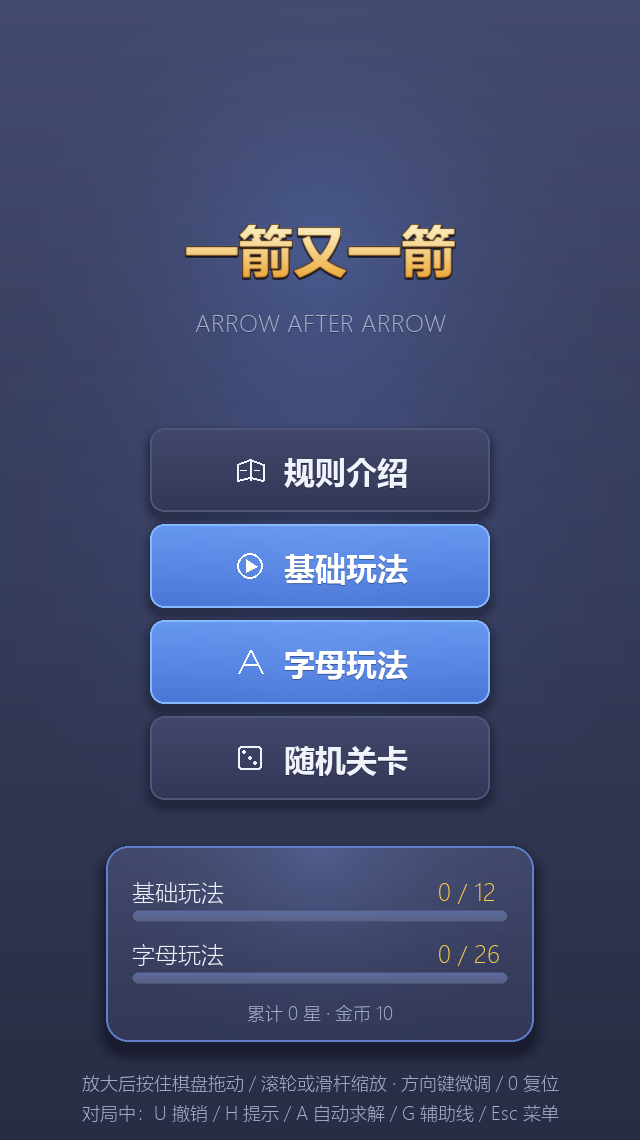
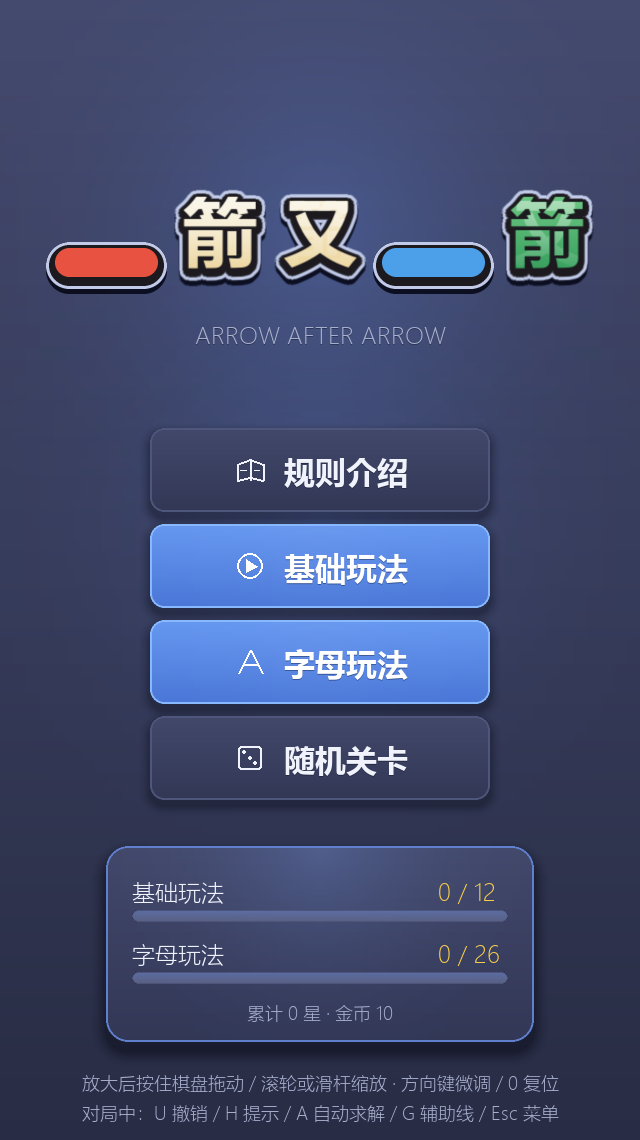
docs: 同步返回来处与拼装标题的说明、测试记录 T16、AIGC 记录，重出开始页截图
- README：顶部靶心改成「返回（回进这一局之前的那一屏）」；界面观感一节把
  艺术字描述换成拼装贴纸字（三层颜色 / lift / 红蓝横条 / 绿色收尾）；338 -> 344 用例
- docs/design.md：8.6 性能表更新；8.7 重写并新增 8.7.1（卡通贴纸配方：第二圈描边
  + 字脸上浮）、8.7.2（拼装式标题：按墨迹排布）、8.7.3（两个性能坑：描边单位不一致、
  圆盘膨胀的降分辨率优化）
- docs/test-record.md：标题升到 T01–T16、汇总 344 passed，新增 T16
- AIGC记录.md：汇总表新增第 19 行（靶心返回来处）与第 20 行（贴纸拼装标题）
- 截图重出 start.png（标题改了，其余界面不受影响）

Changed region(s): [[0.0625, 0.1535, 0.9375, 0.307]]

diff --git a/docs/design.md b/docs/design.md
@@ -457,21 +457,21 @@ paint.blit_glow(self.canvas, center, 430, pal.glow, 62, 2.3)
 
 | 界面 | 中位 | 最大 |
 |---|---|---|
-| 开始页（含艺术字） | 2.24 ms | 5.59 ms |
-| 规则页 | 6.69 ms | 7.61 ms |
-| 基础选关 | 4.02 ms | 5.05 ms |
-| 字母选关 | 1.68 ms | 2.29 ms |
-| 字母关（静态） | 2.91 ms | 5.88 ms |
-| 字母关（飞行中） | 2.82 ms | 3.98 ms |
-| 第 1 关（静态） | 3.40 ms | 5.33 ms |
-| 第 12 关（静态） | 6.02 ms | 8.07 ms |
-| 第 12 关（飞行中） | 5.47 ms | 9.04 ms |
-| 菜单展开 | 8.22 ms | 9.83 ms |
-| 第 12 关（日间） | 5.52 ms | 9.24 ms |
+| 开始页（含拼装标题） | 2.90 ms | 3.78 ms |
+| 规则页 | 7.55 ms | 8.93 ms |
+| 基础选关 | 4.23 ms | 6.15 ms |
+| 字母选关 | 1.76 ms | 2.84 ms |
+| 字母关（静态） | 3.12 ms | 6.82 ms |
+| 字母关（飞行中） | 3.17 ms | 5.21 ms |
+| 第 1 关（静态） | 3.56 ms | 5.08 ms |
+| 第 12 关（静态） | 5.86 ms | 8.53 ms |
+| 第 12 关（飞行中） | 6.29 ms | 7.85 ms |
+| 菜单展开 | 9.12 ms | 11.03 ms |
+| 第 12 关（日间） | 6.27 ms | 7.70 ms |
 
 都远在 60 FPS 的 16.7 ms 预算之内。最贵的是「规则页 / 菜单展开」—— 除了面板本身，
-还要整屏铺一层半透明遮罩，页面上又是一堆小卡片。艺术字反而便宜（2.24 ms）：
-它是一张预渲染好的贴图，一帧只是一次 blit，构建成本只在第一次画时付一次。
+还要整屏铺一层半透明遮罩，页面上又是一堆小卡片。拼装标题反而便宜（2.90 ms）：
+五片各自都是一张预渲染好的贴图，一帧只是五次 blit，构建成本只在第一次画时付一次。
 
 棋盘加密到约 1.4 倍之后，最贵的一档从 3.32 ms 涨到 6.02 ms（第 12 关静态）——
 格子多了约九成，铺底色、描边、箭头都得按格子走一遍。仍然只有预算的三分之一。
@@ -484,17 +484,52 @@ paint.blit_glow(self.canvas, center, 430, pal.glow, 62, 2.3)
 1. `font.render(text)` 拿到一张**抗锯齿的白字**（alpha 就是形状）；
 2. 把它 `smoothscale` 放大 `ART_SUPERSAMPLE = 3` 倍；
 3. 在放大空间里做加工：
-   - **外描边**：把白字染成描边色，按「半径 r 内所有整数偏移点」（一个圆盘，
-     r=描边宽 × 3）逐点 `BLEND_RGBA_MAX` 铺一遍。**用圆盘而不是 4 / 8 个方向**
-     是关键 —— 只铺 8 个方向时，斜笔的描边会被啃出缺口；
+   - **描边**：把白字染成描边色，按「半径 r 内所有整数偏移点」（一个圆盘）逐点
+     `BLEND_RGBA_MAX` 铺一遍。**用圆盘而不是 4 / 8 个方向**是关键 —— 只铺 8 个
+     方向时，斜笔的描边会被啃出缺口；
    - **渐变主体**：拿 `vertical_gradient` 与字的 alpha 相乘（`BLEND_RGBA_MULT`）；
    - **顶部高光**：再叠一层「上实下透明」的 `edge_fade`，同样乘字的 alpha；
-   - **投影**：把描边形状整体挪 `(0, 5)`，垫在最底层；
+   - **投影**：把描边形状整体挪 `(0, dy)`，垫在最底层；
 4. `smoothscale` 缩回原尺寸 —— 放大空间里的那点锯齿一并被平均掉。
 
-留白 `pad = 描边宽 + 2 + max(|dx|, |dy|)` 对上下左右一致，所以返回的 surface
-**中心就是文字中心**，调用方直接 `get_rect(center=...)` 摆位即可。
-整套结果按「字体 + 文字 + 六个颜色 + 描边宽 + 偏移」缓存，切主题会自动换一套。
+留白 `pad = 内描边 + 外描边 + 2 + max(|dx|, |dy|) + |lift|` 对上下左右一致，
+所以返回的 surface **中心就是文字中心**，调用方直接 `get_rect(center=...)` 摆位。
+整套结果按「字体 + 文字 + 全部颜色 + 各宽度 + 偏移」缓存，切主题会自动换一套。
+
+#### 8.7.1 卡通贴纸配方：三层颜色 + 字脸上浮
+
+玩家给了一张参考截图，要的是那种「贴纸」标题。和早期金色渐变的版本比，
+多两样东西：
+
+- **第二圈描边**（`outline2` / `outline2_width`）。参考图是「奶白字面 + 近黑内边 +
+  浅色外边」的三层结构。外圈先按 `outline_width + outline2_width` 铺一个大圆盘，
+  内圈再按 `outline_width` 盖上去，于是只看得见 `outline2_width` 那一圈。
+  三层颜色互相形成对比，所以这套配方在深色底（夜间）和浅色底（日间）上都读得清 ——
+  日间把外圈换成奶黄，免得白色外圈在浅底上化掉。
+- **`lift`：描边整体下移、字面不动**，底部那圈边就比顶部厚，字看起来是浮在边上的。
+  这是贴纸感的来源；平描边（`lift=0`）看着像印上去的。
+
+#### 8.7.2 拼装式标题：横条 + 逐字换色
+
+参考图里两个「一」不是汉字，而是红 / 蓝的圆头横杠，最后一个「箭」还换了绿色。
+所以标题不再是「一段文字」，而是五片拼起来的：`paint.art_banner()` 把
+`art_text`（字符）与 `art_bar`（胶囊横条）横着排。
+
+- `art_bar` 复用同一套渲染栈（超采样 + 双层描边 + 竖向渐变 + 顶部高光），
+  连 `pad` 的算法都和 `art_text` 逐项对齐 —— 两者高度天然相等。
+- 拼接时**横向按墨迹边界（`get_bounding_rect`）排布**。每片四周都留着描边用的
+  透明边距（本例约 22 px），如果直接按 surface 宽度累加，两片之间会凭空多出
+  44 px 的空隙，字就散开了。
+
+#### 8.7.3 两个性能坑
+
+- **描边宽度曾经是「超采样像素」**，而 `pad` 是「原始像素」—— 单位不一致，于是
+  标称 6 px 的描边实际只有 2 px，外圈更是细到缩回后被平均成灰色。现在统一成
+  原始像素，进 `stamp` 前乘 `ART_SUPERSAMPLE`。
+- 单位统一后描边圆盘半径变成 18（超采样像素），**逐点 blit 一次要 42 ms**。
+  改法是在 1/`EDGE_DOWN`(=2) 分辨率上做膨胀：偏移点数与单点面积各降到 1/4，
+  总开销约 1/16，再放大回来时边缘被插值柔化，对一层纯色描边反而更像抗锯齿。
+  整页首帧从 210 ms 降到 **62 ms**，稳态 3.1 ms。
 
 ## 9. 字母玩法：字模 → 遮罩 → 关卡
 

diff --git a/AIGC记录.md b/AIGC记录.md
@@ -28,6 +28,8 @@
 | 16 | 开始页四个入口与字母玩法 | DeepSeek | 玩家要求美化开始页：标题改艺术字，下面放「规则介绍 / 基础玩法 / 字母玩法 / 随机关卡」四个按钮；规则页要写明按键（含 `U` 撤销）但**去掉 `N` 是随机关卡**这一条；字母玩法共 26 关、每关盘面拼成对应的大写字母；随机关从 `N` 键搬到按钮上 | `game/paint.py` 新增 `art_text`（3 倍超采样 + 圆盘偏移做等厚描边 + 按 alpha 乘渐变/高光 + 投影，无需额外字体）；`game/letters.py` 内置 26 个 5×7 点阵字模并光栅化成棋盘遮罩，字母关连通性改用**八连通**；`tools/generate_letters.py` 生成 26 关（难度沿字母序递进）；`game/states.py` 扩到 8 个状态，`main.py` 用 `self.track` 区分基础 / 字母两条线；`icons.py` 补四个入口图标、`ui.Button` 支持 `icon`；删掉 `K_n` 分支与规则页对应的那一行 | 开始页变成「艺术字标题 + 四个入口 + 进度统计」；四条线各有独立入口且互不干扰；`N` 键彻底移除。新增 `tests/test_letters.py` 104 个用例，全量 332 个用例通过；新增界面整帧 1.70~6.66 ms | 先量了「放大后横向溢出 131~171 px」才修拖不动（上一轮）；本轮先写探针脚本确认 26 个字母遮罩都连通、都能生成，才动手改主流程；专门补了一条 `board_size()` 必须是 `(行, 列)` 的用例，因为**这个顺序写反过一次**，直接害得 C/G/J/U/V 五个字母生成失败 |
 | 17 | 顶栏靶心按钮回错选关页（回归） | DeepSeek | 玩家反馈「点上面那个圆圈退出时老是退到基础关卡选择界面」 | 查出这枚顶栏按钮接的是 `open_level_select` —— 一个在**类定义时**用 `open_level_select = open_basic_select` 绑死到基础选关的别名，于是玩字母关时点它也掉进基础选关页；回调改接 `open_select`（按 `self.track` **现场分派**），并把这个别名直接删掉 | 字母关 / 基础关各回各的选关页，随机关回基础选关页；新增 3 个回归用例（走完整点击链路：点击 → HUD → IconButton → 回调），全量 335 个用例通过 | 这类「别名在类定义时绑死」的回调**不报错、只走错分支**，光读代码发现不了；回归用例必须真的发一个点击事件走完整链路，只测那个方法测不出来 |
 | 18 | 棋盘格子数加密到约 1.4 倍 | DeepSeek | 玩家要求「棋盘格子数增加」 | 先按 640×1140 画布实算三档密度再让用户选（格子 44→31→24 px、线宽 13→9→7 px），选了中间的 1.4 倍档；字母关 `DEFAULT_SCALE` 2→3（16×12 → **23×17**，391 格），基础关尺寸整体放大（12×9 → 17×13，最大到 25×19），随机关尺寸表同步放大；`MAX_PIECE` 14→20（笔画变宽，一支箭可以吃更长） | 棋盘更精细、字母弧线明显平滑；箭数 15.9 → 29.0（平均）；全量 338 个用例通过；最贵一档整帧 3.32 → 6.02 ms，仍在 16.7 ms 预算的三分之一；放大到最大时 12 关全部不横向溢出 | 加密本身没动几何计算（格子按可视区反算，改数据即可），但把**生成参数**带偏了：难度曲线出现小反转 —— 每关都在自己上限内独立挑「最满」的一版，实际值可能反而比上一关高。修法是上限跟着上一关**实际值**往下压，且压不动时**换种子重试**，并按 `(是否满足上限, 填充率)` 取最优（只压难度会让填充率掉到 0.887） |
+| 19 | 顶栏靶心按钮改「返回来处」 | DeepSeek | 玩家反馈「随机关卡，点圆圈没有退回到首页，又退回到基础关卡选择页面」 | 第 17 行只把它改成「按 `self.track` 分派」，而随机关卡借用了 basic 这条线，于是仍被当成基础关塞进基础选关页。这次改成认**来路**：`main.py` 加 `self.play_origin`，三个入口各自登记（基础选关页 / 字母选关页 / 开始页），靶心改接新的 `leave_level()` 按来路分派 | 基础 → 基础选关页、字母 → 字母选关页、随机 → **开始页**；新增 2 条回归用例（含「玩过随机之后再进基础关，来路不会被上一次污染」），改 1 条；全量 344 个用例通过 | 「按当前模式分派」对**不属于任何模式的入口**天然失灵 —— 随机关没有自己的选关页，只能借用别人的，于是永远回错。凡是「返回」语义，记来路比猜模式可靠；第 17 行只修了「回错哪一页」，没问「它本来该回哪一页」 |
+| 20 | 标题改成卡通贴纸风拼装艺术字 | DeepSeek | 玩家给了一张参考截图：「开始界面的艺术字我想要截图这里面类似的」（奶白字面 + 粗黑描边 + 浅色外圈，两个「一」是红 / 蓝圆头横杠，末尾「箭」换绿色） | `art_text` 新增 `outline2` / `outline2_width`（外圈铺大圆盘、内圈盖上去，只留一圈宽）与 `lift`（描边整体下移、字面不动 → 底部边更厚，字浮在边上）；新增 `art_bar`（圆头胶囊横条，`pad` 算法与 `art_text` 逐项对齐）与 `art_banner`（横向按**墨迹边界**排布，避免每片四周的描边留白变成片间距）；`theme` 补 5 个配色字段，日夜各一套 | 标题从「一段渐变文字」变成五片拼装（红条 / 箭 / 又 / 蓝条 / 绿箭），占屏宽 79%；全量 344 个用例通过；开始页整帧 2.90 ms | 中间挖出两个坑：① 描边宽度一直用的是「超采样像素」而 `pad` 是「原始像素」，两边没统一，标称 6 px 的描边实际只有 2 px、外圈细到缩回后被平均成灰色；② 单位统一后圆盘半径变 18，逐点 blit 一次 42 ms、整页首帧 210 ms，改在 1/2 分辨率做膨胀再放大回来，首帧降到 62 ms |
 
 ---
 

diff --git a/docs/test-record.md b/docs/test-record.md
@@ -1,8 +1,8 @@
-# 测试记录（T01 – T15）
+# 测试记录（T01 – T16）
 
 - 运行环境：Windows 11 / Python 3.14.0 / pygame-ce 2.5.8 / pytest 9.x
 - 运行方式：项目根目录执行 `python -m pytest -q`（测试在 SDL dummy 驱动下无窗口运行）
-- 汇总结果：**338 passed**，耗时约 12.5 s
+- 汇总结果：**344 passed**，耗时约 16.0 s
 
 ---
 
@@ -439,6 +439,65 @@
 - **结论**：棋盘加密没有动几何计算本身 —— `_compute_geometry()` 的格子尺寸是按
   可视区反算的，改数据即可；真正需要重新调的是**生成参数**（`max_piece`、
   难度上限），因为盘面一大，原来那套参数会同时把「填充率」和「难度曲线」带偏。
+
+---
+
+## T16 靶心按钮返回来处 + 卡通贴纸风拼装标题
+
+- **目的**：两件事 ——
+  1. 玩**随机关卡**时点顶栏靶心，没有回开始页，而是掉进了基础选关页；
+  2. 玩家给了一张参考截图，要开始页标题换成那种「卡通贴纸」观感（奶白字面、
+     粗深描边、浅色外圈、两个「一」画成红 / 蓝圆头横杠、末尾的「箭」换绿色）。
+- **用例**：`tests/test_letters.py` 改 1 条、新增 2 条；`tests/test_paint.py`
+  改 1 条、新增 4 条。
+- **做法**：
+  1. **返回来处**：`main.py` 加 `self.play_origin`，三个入口各自登记来路
+     （基础选关页 / 字母选关页 / 开始页），顶栏靶心改接新的 `leave_level()`，
+     按来路分派。原先接的 `open_select()` 是「按 track 分派」，而随机关卡借用了
+     basic 这条线，于是被当成基础关塞进了基础选关页。
+  2. **双层描边**：`art_text` 新增 `outline2` / `outline2_width`。外圈按
+     `outline_width + outline2_width` 铺一个大圆盘，内圈再按 `outline_width`
+     盖上去，于是只看得见 `outline2_width` 那一圈。
+  3. **`lift`：描边下移、字面不动** —— 底部那圈边比顶部厚，字看起来浮在边上。
+  4. **胶囊横条**：新增 `art_bar()`，复用同一套渲染栈（超采样 + 双层描边 +
+     竖向渐变 + 顶部高光），`pad` 算法与 `art_text` 逐项对齐，两者高度天然相等。
+  5. **拼装**：新增 `art_banner()`，把字符与横条横着排；`main._start_title_pieces()`
+     给出「红条 / 箭 / 又 / 蓝条 / 绿箭」五片。
+- **步骤**（逐条断言）：
+  1. **随机关回开始页**：走完整点击链路（`MOUSEBUTTONDOWN` 打到
+     `hud.select_button.rect.center`），断言 `state == START` 且
+     `play_origin == START`；
+  2. **来路不会被上一次污染**：玩过随机之后再从基础选关页进关，靶心要回基础选关页；
+  3. **三条路线各回各处**：基础 → 基础选关页，字母 → 字母选关页，随机 → 开始页；
+  4. **贴纸标题的像素特征**：画在按钮上方、左右不顶边、宽度占屏 > 70%，
+     且奶白字面 / 深色内边 / 红条 / 蓝条 / 绿色收尾五种颜色都能在图上找到，
+     字面还是上亮下暗；
+  5. **横条是圆头胶囊**：正中是字面色，四角是透明的（方头的话那里会有颜色），
+     垂直中线上找得到深色内边；
+  6. **拼装按墨迹排布**：两张同字拼起来的宽度**恰好**等于「单片墨迹宽 × 2 + gap」，
+     且整块画布已贴着墨迹（若改成按 surface 宽度累加，会凭空多出两倍的描边留白）；
+  7. **双层描边**：双描边版本的图更大，且纯白像素从 0 变成 ≥ 100（外圈那一环）；
+  8. **`lift` 真的把边推下去了**：取「口」的中间一列，比较字面顶边到墨迹顶边、
+     与字面底边到墨迹底边的距离 —— 底部必须更厚，且比不加 `lift` 时更厚。
+- **预期**：全部通过。
+- **实际**：
+  - 中间踩了两个坑，都记在 `docs/design.md` 8.7.3：
+    1. **描边宽度的单位曾经是「超采样像素」**，而 `pad` 是「原始像素」——
+       `stamp` 的调用处没有乘 `s`，于是标称 6 px 的描边实际只有 2 px，
+       外圈更是细到缩回后被平均成灰色（实测只有 `(205,205,206)`）。统一成
+       原始像素后描边才真的粗起来。
+    2. 单位统一后圆盘半径变成 18（超采样像素），**逐点 blit 一次要 42 ms**，
+       五个字符就是 210 ms。改法是在 1/2 分辨率上做膨胀（偏移点数与单点面积
+       各降到 1/4，总开销约 1/16），再放大回来 —— 边缘被插值柔化，对一层纯色
+       描边反倒更像抗锯齿。整页首帧 210 ms → **62 ms**，稳态 **3.1 ms**。
+  - 另外补了一个测试基建问题：`tests/test_paint.py` 的 `game` fixture 收尾会
+    `pygame.quit()`，新写的几条直接调 `pygame.font.SysFont` 的用例会报
+    `font not initialized`，于是加了 `big_font()` 兜底 re-init。
+  - 全量 **344 个用例**全过（16.0 s）。
+- **性能**：`tools/perf_bench.py` 重跑 —— 开始页 2.90 ms（原 2.24，多了一层描边）、
+  规则页 7.55 ms、菜单展开 9.12 ms（最贵），全部远在 16.7 ms 预算内。
+- **结论**：顶栏靶心现在是名副其实的「返回」；标题从「一段渐变文字」变成
+  五片拼装的贴纸字，配色与结构都由 `theme` 提供，日夜两套底色上同样清晰。
 
 ---
 

diff --git a/README.md b/README.md
@@ -38,7 +38,7 @@ python main.py
 | 左键点击空格 | 无惩罚 |
 | 顶部齿轮 | 打开设置（音效、重置进度） |
 | 顶部拨杆 | 日间 / 夜间主题切换，立即生效并存档 |
-| 顶部手柄 / `⋯` / 靶心 | 跳过关卡（3 金币）/ 游戏菜单 / 关卡选择 |
+| 顶部手柄 / `⋯` / 靶心 | 跳过关卡（3 金币）/ 游戏菜单 / 返回（回进这一局之前的那一屏） |
 | 底部金币 | 花 1 金币点亮「现在该点哪一支」 |
 | 底部滑杆与放大镜 | 缩放棋盘 |
 | 底部 `#` | 辅助线点阵开关 |
@@ -79,9 +79,11 @@ python main.py
 - **界面观感**：整页背景是竖向渐变 + 棋盘后方一团柔光；棋盘垫在一块圆角面板上；
   顶栏底栏是半透明「玻璃」加一道渐隐阴影；按钮、卡片、菜单项、滑杆都是渐变填充 +
   细描边 + 投影，悬停提亮描边、按下整体下沉 2 像素。所有贴图都按参数缓存，
-  一帧只是几次 `blit`。开始页标题「一箭又一箭」是**艺术字**：竖向渐变填充 + 外描边 +
-  顶部高光 + 投影，做法是「先把文字放大 3 倍、在放大空间里按圆盘铺描边、再缩回」，
-  斜笔的描边因此等宽又平滑。详见 `docs/design.md` 第 8 节。
+  一帧只是几次 `blit`。开始页标题「一箭又一箭」是**拼装出来的卡通贴纸字**：渐变的
+  奶白字面 + 近黑内描边 + 浅色外描边（三层对比，日夜底色上都读得清），描边整体下移
+  几个像素、字面不动，字就浮在边上了；两个「一」不写汉字，直接是红 / 蓝的圆头横杠，
+  末尾的「箭」换成绿色收尾。做法是「先把文字放大 3 倍、在放大空间里按圆盘铺描边、
+  再缩回」，斜笔的描边因此等宽又平滑。详见 `docs/design.md` 第 8.7 节。
 
 ## 项目结构
 
@@ -126,7 +128,7 @@ arrow-after-arrow/
 ## 测试与工具
 
 ```bash
-python -m pytest -q                    # 338 个用例，无窗口运行
+python -m pytest -q                    # 344 个用例，无窗口运行
 python tools/generate_levels.py        # 重新生成基础玩法 12 关
 python tools/generate_levels.py --check  # 校验现有 level.py：可通、可解、有阻挡
 python tools/generate_levels.py --stats  # 打印 12 关的难度表
